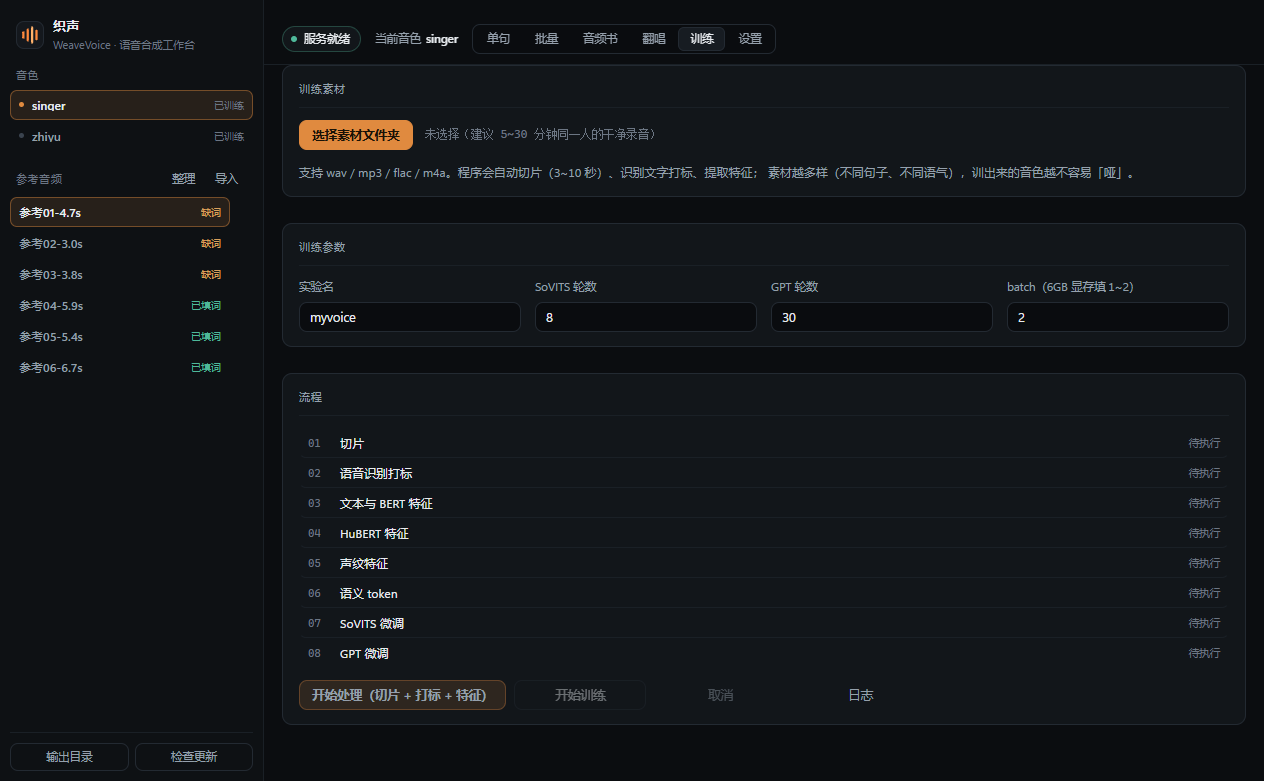
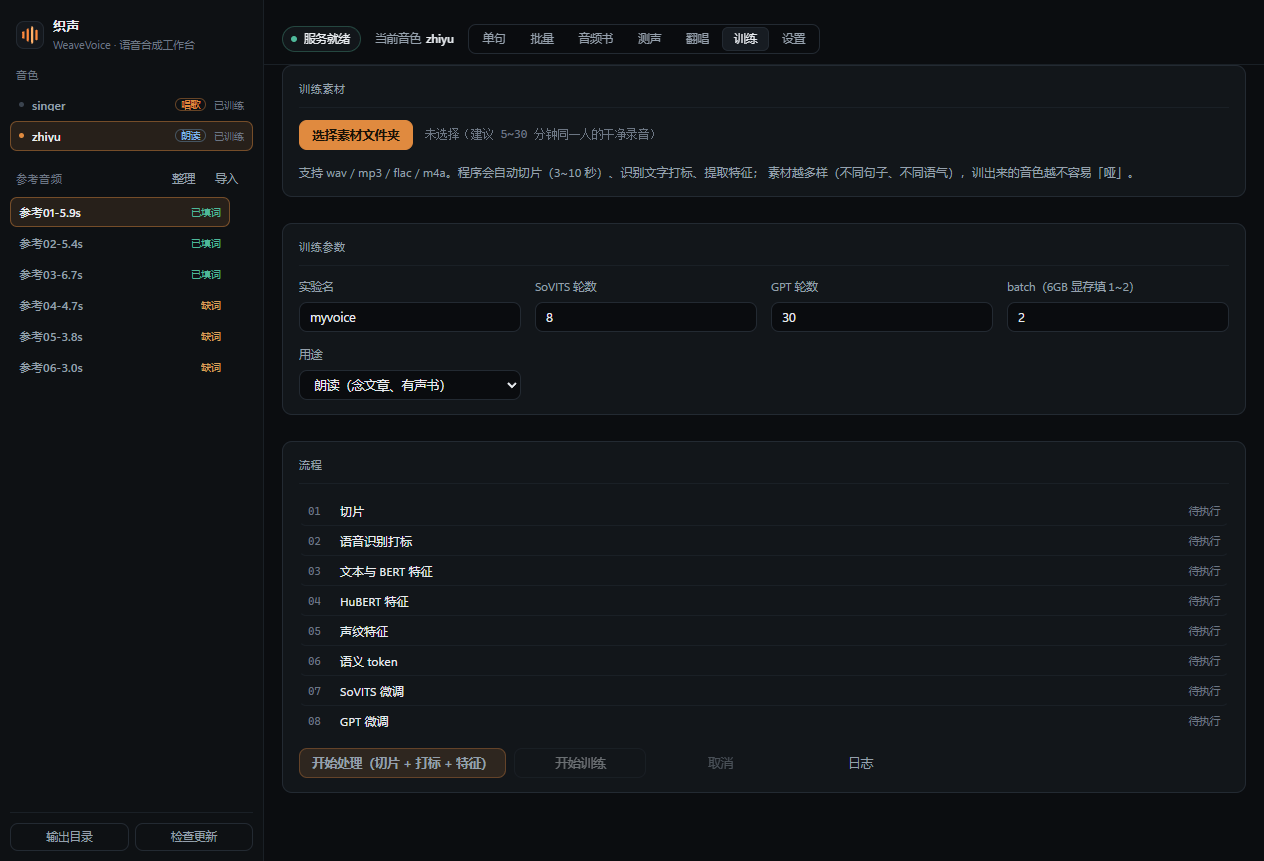
fix(tts): 启动时强制 fp32 推理，修复自训练音色出静音

diff --git a/electron/main.js b/electron/main.js
@@ -307,6 +307,22 @@ function startApi() {
   });
   if (rt.useBase) env.PYTHONPATH = rt.site;
   log('启动 TTS 服务…');
+  // 训练出来的是 fp32 权重，半精度推理会给出全零波形：
+  // 启动前把 custom 段的 is_half 固定为 false（幂等，失败不影响启动）
+  try {
+    const yaml = require('js-yaml');
+    const cfgPath = path.join(root, 'GPT_SoVITS', 'configs', 'tts_infer.yaml');
+    if (fs.existsSync(cfgPath)) {
+      const doc = yaml.load(fs.readFileSync(cfgPath, 'utf8')) || {};
+      if (doc.custom && doc.custom.is_half !== false) {
+        doc.custom.is_half = false;
+        fs.writeFileSync(cfgPath, yaml.dump(doc, { lineWidth: 120 }), 'utf8');
+        log('已把推理精度设为 fp32（避免半精度出静音）');
+      }
+    }
+  } catch (err) {
+    log('精度配置修正跳过：' + String(err.message || err));
+  }
   apiProc = spawn(py, ['-s', 'api_v2.py', '-c', 'GPT_SoVITS/configs/tts_infer.yaml', '-p', String(apiPort)],
     { cwd: root, env, windowsHide: true });
   apiProc.stdout.setEncoding('utf8');
@@ -372,6 +388,41 @@ async function runSelfTest() {
     } catch (_) {}
   };
 
+  if (process.env.GSO_TRAIN_RUN === '1') {
+    try {
+      const dir = String(process.env.GSO_TRAIN_DIR || '');
+      const exp = String(process.env.GSO_TRAIN_EXP || 'langdu');
+      const s2 = Number(process.env.GSO_TRAIN_S2 || 8);
+      const s1 = Number(process.env.GSO_TRAIN_S1 || 30);
+      const batch = Number(process.env.GSO_TRAIN_BATCH || 2);
+      const role = String(process.env.GSO_TRAIN_ROLE || 'read');
+      if (process.env.GSO_TRAIN_SKIP_PREP !== '1') {
+        const inspect = await mainWindow.webContents.executeJavaScript(
+          'window.api.trainInspect({ dir: ' + JSON.stringify(dir) + ' })'
+        );
+        log('TRAIN_RUN inspect=' + JSON.stringify(inspect));
+        const prep = await mainWindow.webContents.executeJavaScript(
+          'window.api.trainPrepare({ inputDir: ' + JSON.stringify(dir) + ', expName: ' + JSON.stringify(exp) + ' })'
+        );
+        log('TRAIN_RUN prepare=' + JSON.stringify(prep).slice(0, 300));
+        if (!prep || !prep.ok) { setTimeout(() => app.exit(1), 500); return; }
+      } else {
+        log('TRAIN_RUN skip prepare');
+      }
+      const fit = await mainWindow.webContents.executeJavaScript(
+        'window.api.trainStart({ expName: ' + JSON.stringify(exp) + ', s2Epochs: ' + s2 + ', s1Epochs: ' + s1 + ', batch: ' + batch + ' })'
+      );
+      log('TRAIN_RUN start=' + JSON.stringify(fit).slice(0, 300));
+      await mainWindow.webContents.executeJavaScript(
+        'window.api.setVoiceRole({ name: ' + JSON.stringify(exp.toLowerCase()) + ', role: ' + JSON.stringify(role) + ' })'
+      );
+      log('TRAIN_RUN done ok=' + !!(fit && fit.ok));
+    } catch (err) {
+      log('TRAIN_RUN fail ' + err);
+    }
+    setTimeout(() => app.exit(0), 800);
+    return;
+  }
   if (process.env.GSO_QA === '1') {
     const errors = [];
     mainWindow.webContents.on('console-message', (_e, level, message) => {
@@ -2034,11 +2085,13 @@ ipcMain.handle('train:start', async (_e, opts) => {
   }
 
   // SoVITS
+  const safeMode = process.env.GSO_TRAIN_SAFE === '1';
   const s2CfgPath = path.join(root, 'GPT_SoVITS', 'configs', 's2v2Pro.json');
   const s2 = JSON.parse(fs.readFileSync(s2CfgPath, 'utf8'));
   Object.assign(s2.train, {
-    batch_size: batch,
+    batch_size: safeMode ? 1 : batch,
     epochs: s2Epochs,
+    eval_interval: safeMode ? 1000000 : 500,
     text_low_lr_rate: 0.4,
     pretrained_s2G: 'GPT_SoVITS/pretrained_models/v2Pro/s2Gv2Pro.pth',
     pretrained_s2D: 'GPT_SoVITS/pretrained_models/v2Pro/s2Dv2Pro.pth',
@@ -2050,6 +2103,7 @@ ipcMain.handle('train:start', async (_e, opts) => {
     lora_rank: 32
   });
   s2.model.version = 'v2Pro';
+  if (safeMode) { s2.train.fp16_run = false; if (s2.train.half) s2.train.half = false; }
   s2.data.exp_dir = s2.s2_ckpt_dir = optDir;
   s2.save_weight_dir = 'SoVITS_weights_v2Pro';
   s2.name = expName;
@@ -2089,7 +2143,7 @@ ipcMain.handle('train:start', async (_e, opts) => {
     '  epochs: ' + s1Epochs,
     '  batch_size: ' + batch,
     '  save_every_n_epoch: ' + Math.max(1, Math.floor(s1Epochs / 3)),
-    '  precision: 16-mixed',
+    '  precision: ' + (process.env.GSO_TRAIN_SAFE === '1' ? '32' : '16-mixed'),
     '  gradient_clip: 1.0',
     '  if_save_every_weights: true',
     '  if_save_latest: true',
